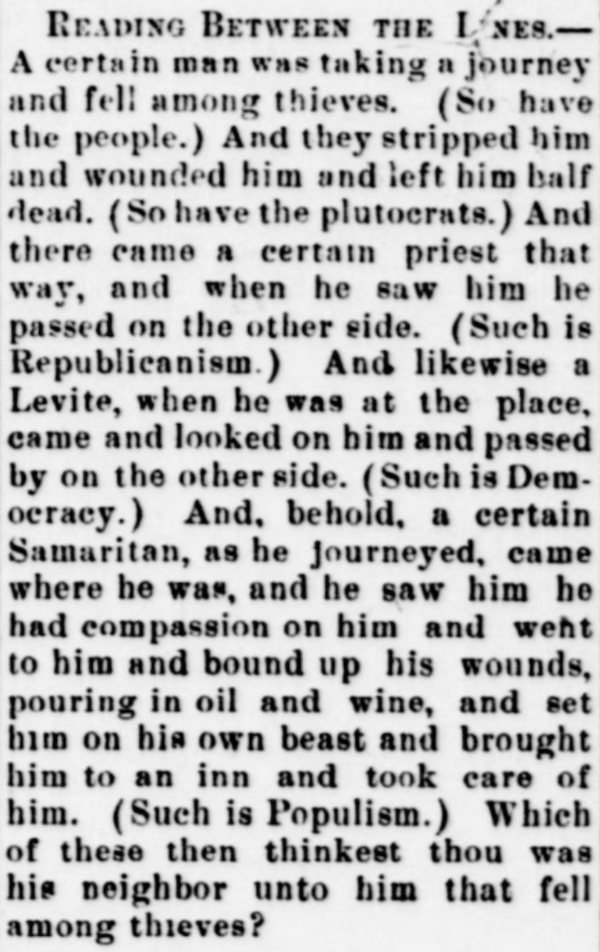
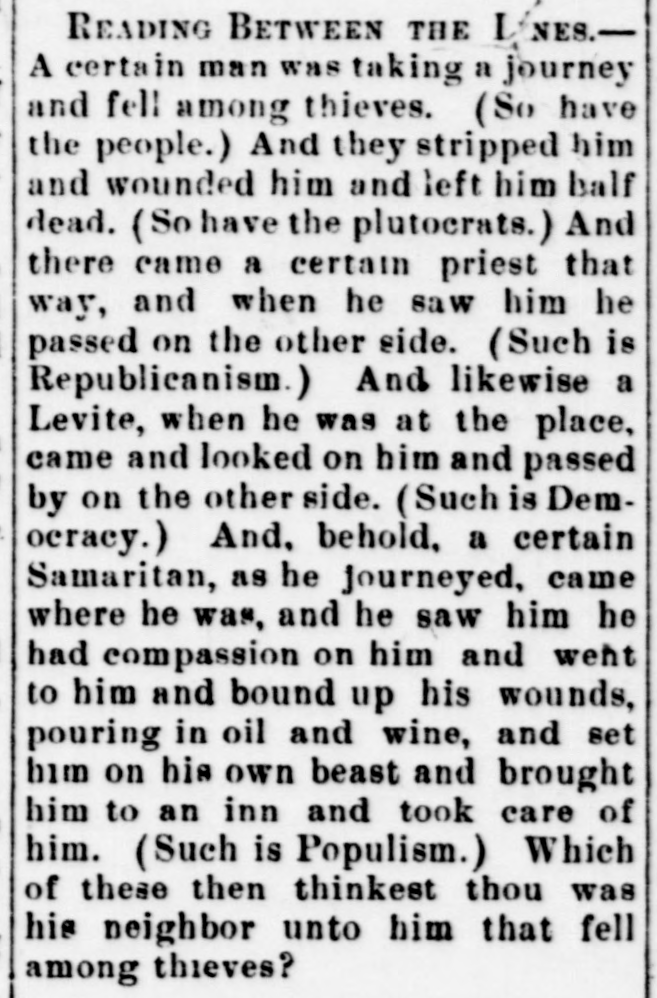
Update pages for new smaller figures

diff --git a/website/content/essay/introduction/index.md b/website/content/essay/introduction/index.md
@@ -132,7 +132,7 @@ But at the heart of what makes this project different from the typical form of h
 
 If rare in historical scholarship, a commentary offers an exegesis some significant text is a common form of scholarship in other disciplines. Most obviously, commentaries are a common genre in biblical scholarship. In its typical form, a biblical commentary divides up the text pericope by pericope, or even verse by verse, with each section of the biblical text being followed by an explanation. Usually that explanation includes a discussion of the words used, perhaps in the ancient languages; an exegesis of the meaning of the passage; an outline of the passage's place in the larger structure of the biblical book under consideration; a discussion of the historical context of the passage; cross-references to other biblical passages; and perhaps didactic comments intended to stir devotion in the readers. Sometimes volumes undertook the task of commentary as a series of footnotes or annotations on the text. It is worth pointing out that, biblical commentaries became increasingly popular during the nineteenth century, the primary period studied in this work. Popular commentators such as Matthew Henry and Albert Barnes were commonly written and published in this period, as were more scholarly commentaries such as the International Critical Commentary begun midcentury (figure 7).[^69]
 
-{{% fig-2up left="barnes-title.png" right="barnes-romans.png" caption="The title page and the opening commentary on Romans 13 from Albert Barnes, [_Notes, Explanatory and Practical, on the Epistle to the Romans_](https://catalog.hathitrust.org/Record/100566387), ninth ed. (New York, 1863). Notice that the biblical text of Romans 13:1 is printed at the top of the page, with the commentary below in smaller type keyed to specific phrases in the verse." %}}
+{{< fig-2up left="barnes-title.png" right="barnes-romans.png" caption="The title page and the opening commentary on Romans 13 from Albert Barnes, [_Notes, Explanatory and Practical, on the Epistle to the Romans_](https://catalog.hathitrust.org/Record/100566387), ninth ed. (New York, 1863). Notice that the biblical text of Romans 13:1 is printed at the top of the page, with the commentary below in smaller type keyed to specific phrases in the verse." >}}
 
 But _America's Public Bible_ is not a commentary on the Bible in the way that a nineteenth-century pastor or a twenty-first century critical scholar might comment on the text itself. Rather it is a commentary on how Americans have used the Bible throughout their history, at least as discussed in public through the medium of the newspaper. Rather than being a work of biblical scholarship, it is a work of historical scholarship on the Bible. In a recent essay, Paul Gutjahr summarized the kinds of ways that Americans have engaged with the Bible.[^70] From the perspective of a historian of religion, the list mixes both scholarly activity and the kinds of activities that scholars study, including (1) textual interpretation, (2) works concerning biblical translation, (3) bibliographic and textual work on the Bible, (4) historical work on the Bible, (5) cultural examinations of the Bible, and (6) reception studies of the Bible. This rubric is helpful for examining what _America's Public Bible_ is studying and where it fits in with other works on the Bible in America. The work falls firmly into the category of reception studies of the Bible, as well as a cultural examination of its place in the Untied States.[^71]
 
